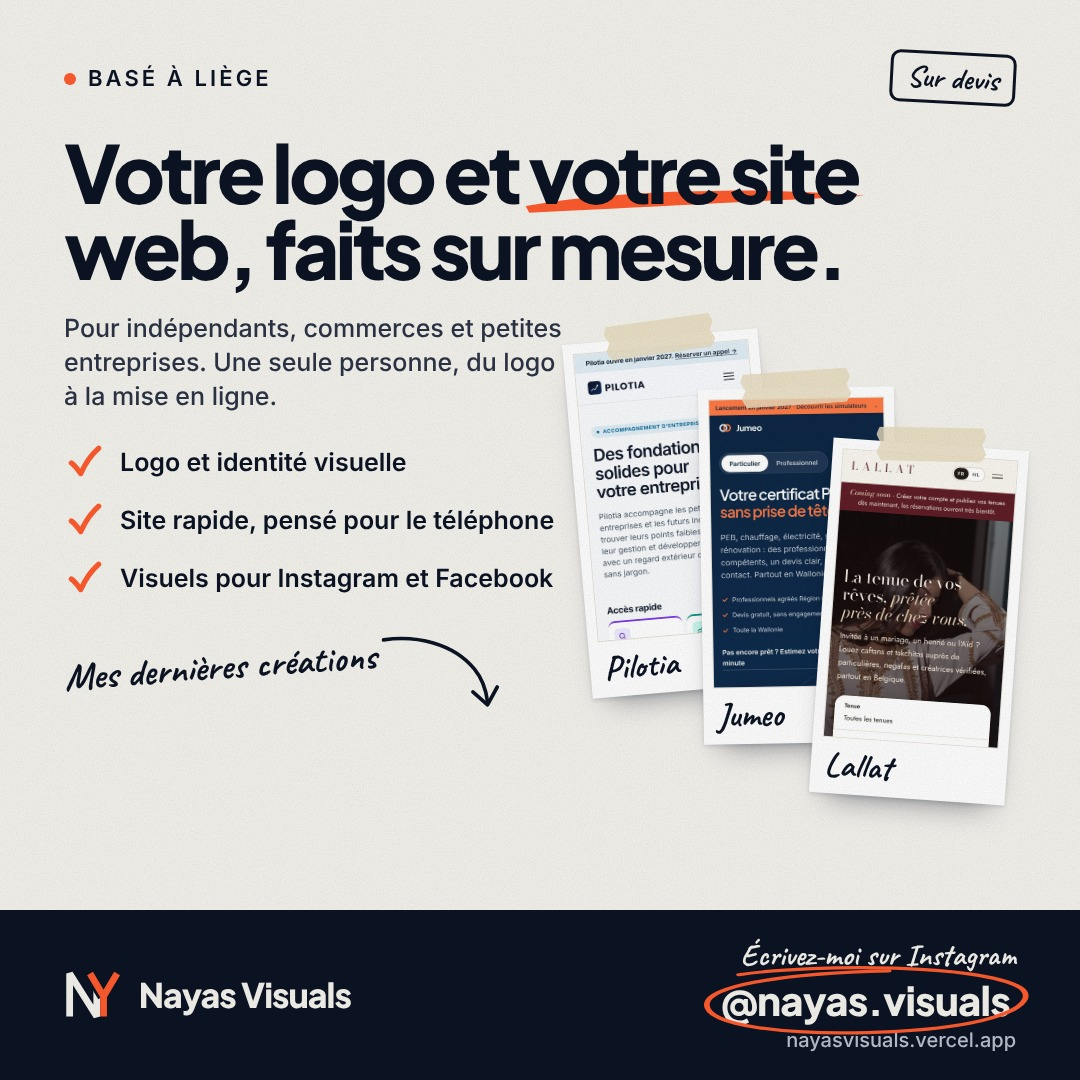
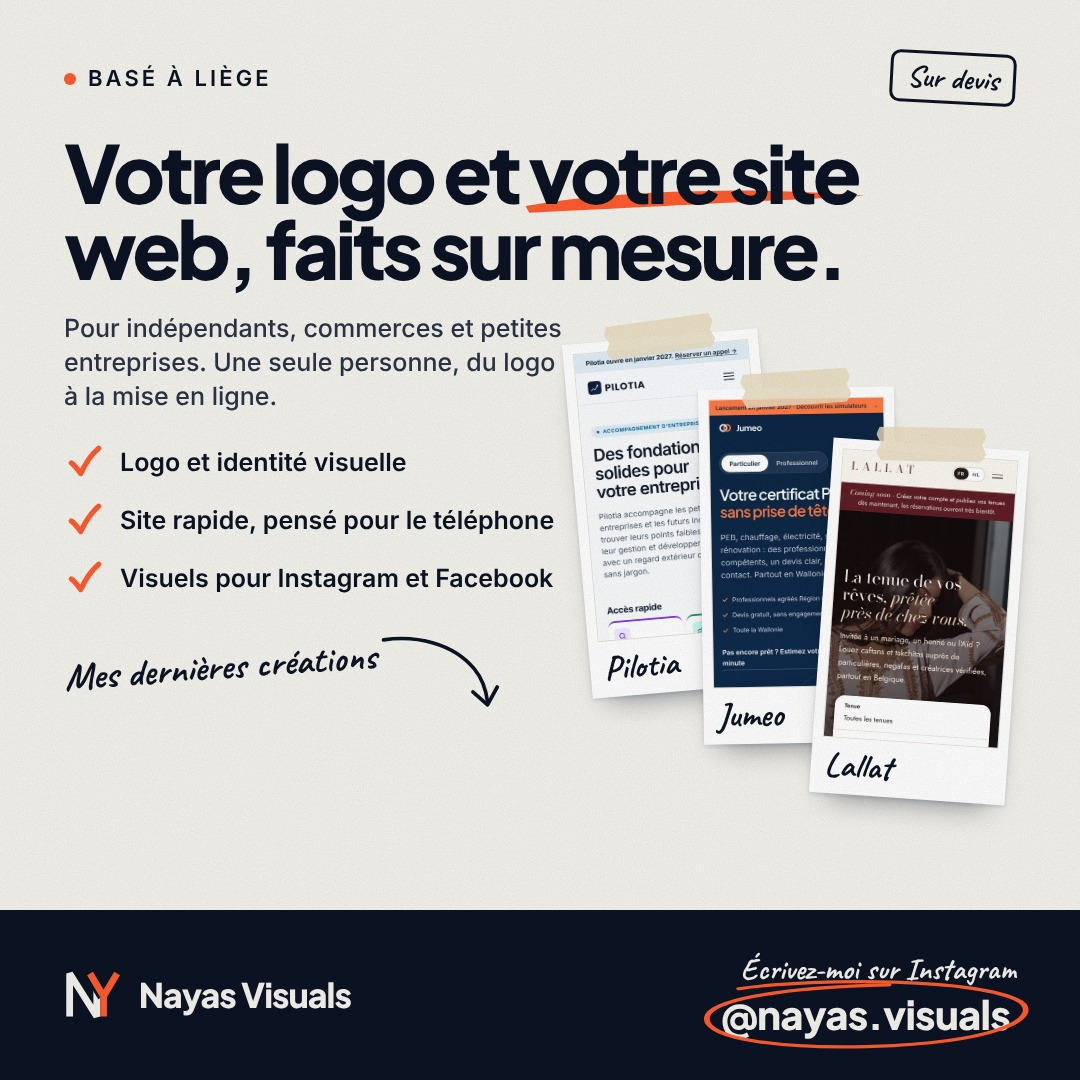
Flyer et annonce : adresse du site retirée en attendant le nom de domaine définitif
Claude-Session: https://claude.ai/code/session_015xoUz1FX5UVYhToJu1J5Tq

Changed region(s): [[0.6417, 0.8556, 0.9778, 0.9778]]

diff --git a/CLAUDE.md b/CLAUDE.md
@@ -74,7 +74,7 @@ Skills : `motionsites-web-builder` pour design et mouvement ; `logo-design` pour
 - `video/lancement/` : **vidéo de lancement** (Remotion, verticale 21 s, sans son : musique à ajouter dans Instagram). Vidéos libres de droits fournies par Nasser (Pexels), découpées par `preparer-clips.mjs`, non enregistrées dans le dépôt. Les vidéos de banque d'images servent d'ambiance, jamais présentées comme des réalisations ; les réalisations montrées sont les vraies captures.
 
 ## Flyers et annonces
-- `marketing/flyer/` : flyer pour Facebook Marketplace et 2ememain (carré 1080 et portrait 1080 × 1350), style « affiche papier » volontairement peu « IA » : grain papier, vraies captures scotchées, annotations manuscrites (police Caveat), couleurs franches sans dégradé. `node marketing/flyer/build.mjs` → `out/*.jpg`. Texte d'annonce prêt dans `annonce.md`.
+- `marketing/flyer/` : flyer pour Facebook Marketplace et 2ememain (carré 1080 et portrait 1080 × 1350), style « affiche papier » volontairement peu « IA » : grain papier, vraies captures scotchées, annotations manuscrites (police Caveat), couleurs franches sans dégradé. `node marketing/flyer/build.mjs` → `out/*.jpg`. Texte d'annonce prêt dans `annonce.md`. **Pas d'adresse de site sur le flyer ni dans l'annonce** tant que le nom de domaine définitif n'est pas acheté (demande de Nasser, 20/11/2026) : contact uniquement par @nayas.visuals.
 
 ## Lancer un nouveau client (phrase clé)
 - **« Nouveau client : [nom] »** (ou `/nouveau-client [nom]`) lance la procédure : suivre `.claude/skills/nouveau-client/SKILL.md` et `documents/procedure-client.md`.

diff --git a/marketing/flyer/annonce.md b/marketing/flyer/annonce.md
@@ -23,4 +23,3 @@ Prix sur devis, selon votre projet.
 Basé à Liège. Ouverture officielle en janvier 2027 : vous pouvez déjà m'écrire pour en parler.
 
 Écrivez-moi ici ou sur Instagram : @nayas.visuals
-Site : nayasvisuals.vercel.app
